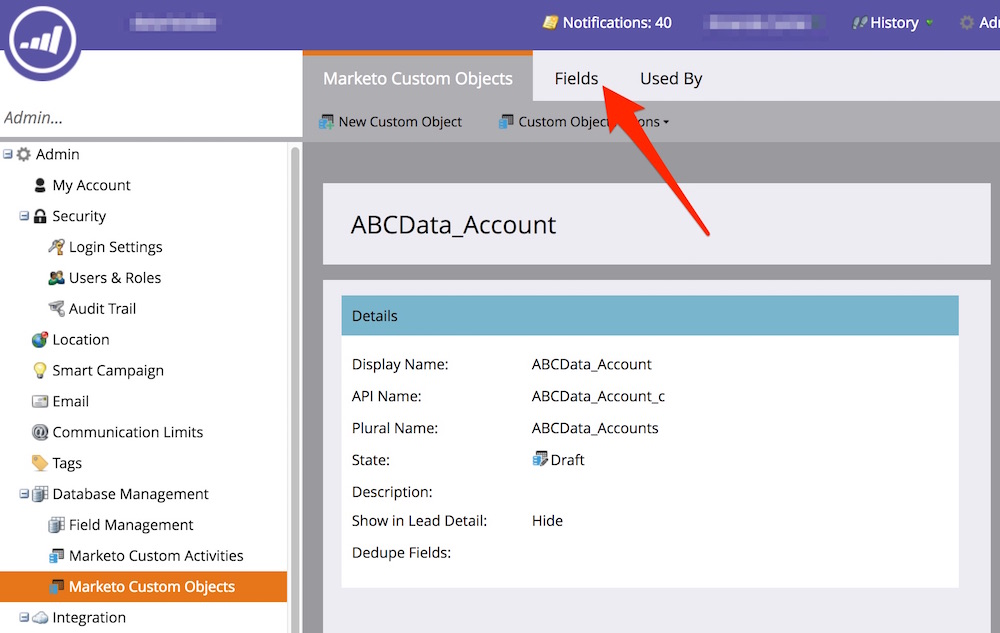
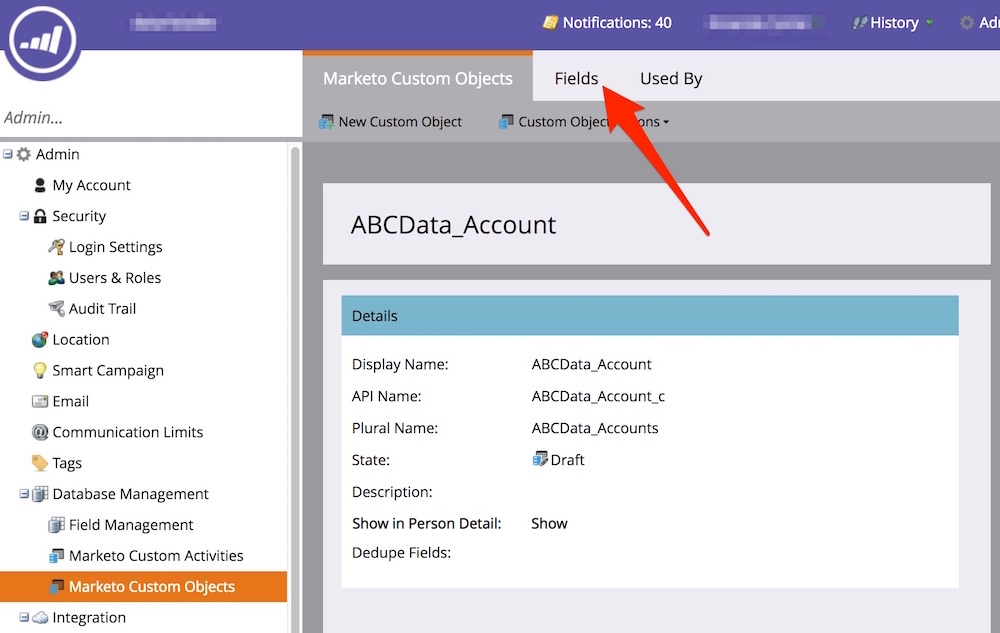
change lead to person, edit screenshots

Changed region(s): [[0.341, 0.8104, 0.496, 0.8404], [0.062, 0.9005, 0.217, 0.9305], [0.527, 0.8104, 0.589, 0.8404]]

diff --git a/_entries/2700_marketo_create_object_fields.md b/_entries/2700_marketo_create_object_fields.md
@@ -28,12 +28,12 @@ Click **New Field**
 ![test image]({{ site.baseurl }}/img/2700/click_fields.jpg)
 
 
->Create the **leadId** field that will link the custom object to the Lead object.   
+>Create the **leadId** field that will link the custom object to the **Person** object.  The Person object was formerly called the Lead object.
 
 >Be sure to use **Data Type: link**
 {:.warning}
 
-![test image]({{ site.baseurl }}/img/2700/leadId_field.jpg)
+![test image]({{ site.baseurl }}/img/2700/leadId_field.png)
 
 >Create the rest of the fields  
 
